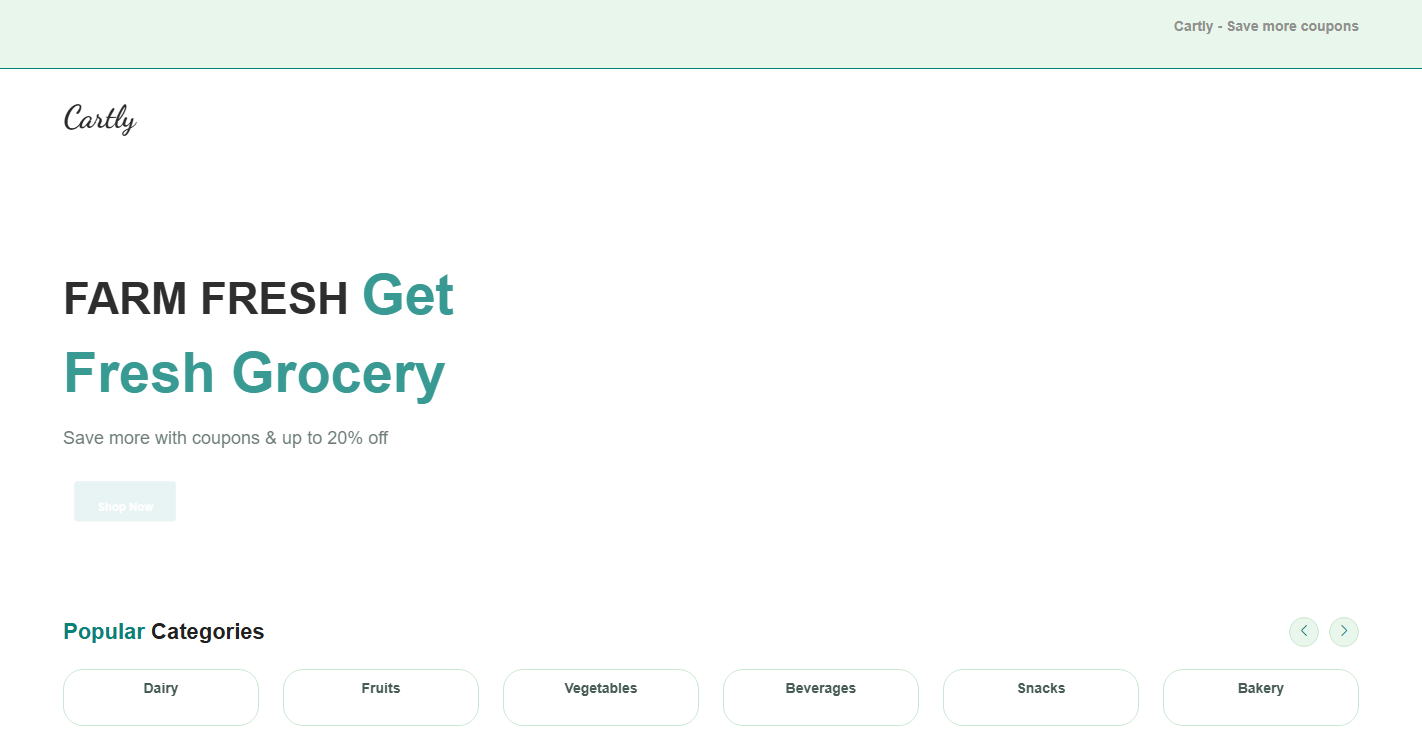
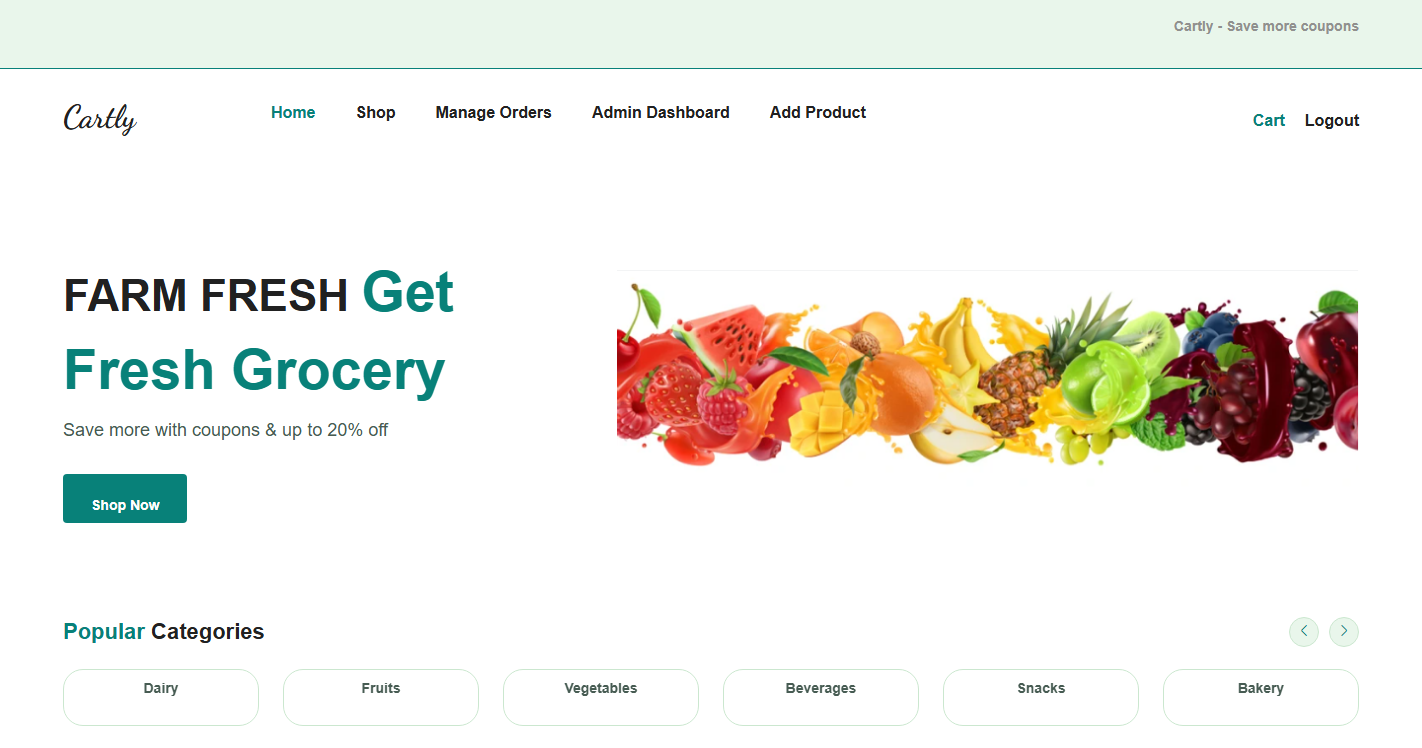
Fix broken asset references in templates
- Remove dead stylesheet link (ProductApp/styles.css never existed)
- Fix favicon to use the existing logo via {% static %}
- Add missing assets: menu-burger.svg, icon-email.svg, payment-method.png
- Replace hardcoded relative asset paths with {% static %} tags
- Remove leftover hardcoded demo showcase section with dead links
- Fix 'Shop Now' button to link to the shop URL
- Re-capture dashboard screenshot after cleanup

diff --git a/MainApp/templates/product.html b/MainApp/templates/product.html
@@ -82,7 +82,7 @@
         <span class="home__subtitle"></span>
         <h1 class="home__title">FARM FRESH <span>Get Fresh Grocery</span></h1>
         <p class="home__description">Save more with coupons & up to 20% off</p>
-        <a href="shop.html" class="btn">Shop Now</a>
+        <a href="{% url 'shop' %}" class="btn">Shop Now</a>
       </div>
       <img src="{% static 'pics/logo1.png' %}" alt="Logo" />
     </div>
@@ -250,195 +250,11 @@
 
 
 
-  <!--=============== SHOWCASE ===============-->
-  <section class="showcase section">
-    <div class="showcase__container container grid">
-  
-      <!-- Fresh Section -->
-      <div class="showcase__wrapper animate-on-scroll">
-        <h3 class="section__title">Fresh</h3>
-      
-        <div class="showcase__item animate-on-scroll">
-          <a href="coconut.html" class="showcase__img-box">
-            <img src="./assets/img/111 big-coconut-1-pc-approx-350-g-600-g.webp" alt="" class="showcase__img" />
-          </a>
-          <div class="showcase__content">
-            <a href="coconut.html"><h4 class="showcase__title">Coconut</h4></a>
-            <div class="showcase__price flex">
-              <span class="new__price">₹50.00</span>
-              <span class="old__price">₹70.00</span>
-            </div>
-          </div>
-        </div>
-  
-        <div class="showcase__item zoom-in">
-          <a href="apple.html" class="showcase__img-box">
-            <img src=".Main/assets/img/112 apple.webp" alt="" class="showcase__img" />
-          </a>
-          <div class="showcase__content">
-            <a href="details.html"><h4 class="showcase__title">Apple</h4></a>
-            <div class="showcase__price flex">
-              <span class="new__price">₹200.00</span>
-              <span class="old__price">₹245.00</span>
-            </div>
-          </div>
-        </div>
-  
-        <div class="showcase__item zoom-in">
-          <a href="pineapple.html" class="showcase__img-box">
-            <img src="./assets/img/113 pineapple-queen-1-pc .webp" alt="" class="showcase__img" />
-          </a>
-          <div class="showcase__content">
-            <a href="details.html"><h4 class="showcase__title">Pineapple</h4></a>
-            <div class="showcase__price flex">
-              <span class="new__price">₹150.00</span>
-              <span class="old__price">₹179.00</span>
-            </div>
-          </div>
-        </div>
-      </div>
-  
-      <!-- Home & Lifestyle Section -->
-      <div class="showcase__wrapper slide-up">
-        <h3 class="section__title fade-in">Home & Lifestyle</h3>
-  
-        <div class="showcase__item zoom-in">
-          <a href="8_kitchenware.html" class="showcase__img-box">
-            <img src="./assets/img/home-11-liv-flame-non-stick-black-aluminium-cookware-sets-of-3-product-images-o494241286-p604752734-0-202309232039.webp" alt="" class="showcase__img" />
-          </a>
-          <div class="showcase__content">
-            <a href="8_kitchenware.html"><h4 class="showcase__title">Non stick pan</h4></a>
-            <div class="showcase__price flex">
-              <span class="new__price">₹499.00</span>
-              <span class="old__price">₹699.00</span>
-            </div>
-          </div>
-        </div>
-  
-        <div class="showcase__item zoom-in">
-          <a href="8_kitchenware.html" class="showcase__img-box">
-            <img src="./assets/img/home-22-biodegradable-garbage-bags-medium-size-19-21-inch-90-bags-3-rolls-product-images-orvgl7wlpus-p603457038-0-202401081227.webp" alt="" class="showcase__img" />
-          </a>
-          <div class="showcase__content">
-            <a href="8_kitchenware.html"><h4 class="showcase__title">Biodegradable bag</h4></a>
-            <div class="showcase__price flex">
-              <span class="new__price">₹179.00</span>
-              <span class="old__price">₹200.00</span>
-            </div>
-          </div>
-        </div>
-  
-        <div class="showcase__item zoom-in">
-          <a href="8_kitchenware.html" class="showcase__img-box">
-            <img src="./assets/img/home-33-gas-lighter-black-isi-mark-1-year-warranty-product-images-orv0vqf2g5q-p594433959-0-202210121905.webp" alt="" class="showcase__img" />
-          </a>
-          <div class="showcase__content">
-            <a href="8_kitchenware.html"><h4 class="showcase__title">Gas Lighter</h4></a>
-            <div class="showcase__price flex">
-              <span class="new__price">₹145.00</span>
-              <span class="old__price">₹180.00</span>
-            </div>
-          </div>
-        </div>
-      </div>
-  
-      <!-- Grocery Essentials Section -->
-      <div class="showcase__wrapper slide-up">
-        <h3 class="section__title fade-in">Grocery Essentials</h3>
-  
-        <div class="showcase__item zoom-in">
-          <a href="6_personalcare.html" class="showcase__img-box">
-            <img src="./assets/img/ess-11-closeup-everfresh-red-hot-gel-toothpaste-150-g-pack-of-2-product-images-o490008332-p490008332-0-202306071847.webp" alt="" class="showcase__img" />
-          </a>
-          <div class="showcase__content">
-            <a href="6_personalcare.html"><h4 class="showcase__title">Closeup paste</h4></a>
-            <div class="showcase__price flex">
-              <span class="new__price">₹160.00</span>
-              <span class="old__price">₹200.00</span>
-            </div>
-          </div>
-        </div>
-  
-        <div class="showcase__item zoom-in">
-          <a href="3_homecare.html" class="showcase__img-box">
-            <img src="./assets/img/ess-22-surf-excel-easy-wash-detergent-powder-5-kg-product-images-o492367966-p590837659-0-202410161619.webp" alt="" class="showcase__img" />
-          </a>
-          <div class="showcase__content">
-            <a href="3_homecare.html"><h4 class="showcase__title">Surf Excel powder</h4></a>
-            <div class="showcase__price flex">
-              <span class="new__price">₹558.00</span>
-              <span class="old__price">₹655.00</span>
-            </div>
-          </div>
-        </div>
-  
-        <div class="showcase__item zoom-in">
-          <a href="5_cookingessentials.html" class="showcase__img-box">
-            <img src="./assets/img/ess-33-fortune-sunlite-refined-sunflower-oil-1-l-product-images-o490000052-p490000052-0-202203150155.webp" alt="" class="showcase__img" />
-          </a>
-          <div class="showcase__content">
-            <a href="5_cookingessentials.html"><h4 class="showcase__title">Fortune Sunflower oil</h4></a>
-            <div class="showcase__price flex">
-              <span class="new__price">₹159.00</span>
-              <span class="old__price">₹200.00</span>
-            </div>
-          </div>
-        </div>
-      </div>
-  
-      <!-- Snacks Store Section -->
-      <div class="showcase__wrapper slide-up">
-        <h3 class="section__title fade-in">Snacks Store</h3>
-  
-        <div class="showcase__item zoom-in">
-          <a href="4_packedfood.html" class="showcase__img-box">
-            <img src="./assets/img/snacks-11-murukku.webp" alt="" class="showcase__img" />
-          </a>
-          <div class="showcase__content">
-            <a href="4_packedfood.html"><h4 class="showcase__title">Murruku</h4></a>
-            <div class="showcase__price flex">
-              <span class="new__price">₹50.00</span>
-              <span class="old__price">₹60.00</span>
-            </div>
-          </div>
-        </div>
-  
-        <div class="showcase__item zoom-in">
-          <a href="4_packedfood.html" class="showcase__img-box">
-            <img src="./assets/img/snacks-22-hot-n-sweet-potato-chips-crispy-chips-snacks.webp" alt="" class="showcase__img" />
-          </a>
-          <div class="showcase__content">
-            <a href="4_packedfood.html"><h4 class="showcase__title">Lays</h4></a>
-            <div class="showcase__price flex">
-              <span class="new__price">₹50.00</span>
-              <span class="old__price">₹60.00</span>
-            </div>
-          </div>
-        </div>
-  
-        <div class="showcase__item zoom-in">
-          <a href="4_packedfood.html" class="showcase__img-box">
-            <img src="./assets/img/snacks-33-dark-fantasy-vanilla-creme-biscuits-249-g-pack-of-3-product-images-o491696803-p590126856-0-202406031907.webp" alt="" class="showcase__img" />
-          </a>
-          <div class="showcase__content">
-            <a href="4_packedfood.html"><h4 class="showcase__title">Dark fantasy biscuits</h4></a>
-            <div class="showcase__price flex">
-              <span class="new__price">₹45.00</span>
-              <span class="old__price">₹55.00</span>
-            </div>
-          </div>
-        </div>
-      </div>
-  
-    </div>
-  </section>
-  
-
   <!--=============== NEWSLETTER ===============-->
   <section class="newsletter section home__newsletter slide-up">
     <div class="newsletter__container container grid">
       <h3 class="newsletter__title flex fade-in">
-        <img src="./assets/img/icon-email.svg" alt="" class="newsletter__icon" />
+        <img src="{% static 'assets/img/icon-email.svg' %}" alt="" class="newsletter__icon" />
         Sign in to Freshyy grocery
       </h3>
       <p class="newsletter__description fade-in">

diff --git a/MainApp/templates/base.html b/MainApp/templates/base.html
@@ -27,9 +27,8 @@
 <link href="https://cdn.jsdelivr.net/npm/bootstrap@5.3.0/dist/css/bootstrap.min.css" rel="stylesheet">
 <link rel="stylesheet" href="https://cdn.jsdelivr.net/npm/bootstrap-icons@1.10.5/font/bootstrap-icons.css">
 
-  <link rel="stylesheet" href="{% static 'ProductApp/styles.css' %}">
   <link href="https://unpkg.com/aos@2.3.1/dist/aos.css" rel="stylesheet" />
-  <link rel="icon" type="image/png" href="static/logo.png">
+  <link rel="icon" type="image/png" href="{% static 'pics/logo.png' %}">
   <style>
 /* Button styles for a premium look */
 .btn {
@@ -2368,7 +2367,7 @@
       <div class="header__user-actions">
         <a href="{% url 'view_cart' %}" class="nav__link active-link">Cart</a>
         <div class="header__action-btn nav__toggle" id="nav-toggle">
-          <img src="./assets/img/menu-burger.svg" alt="">
+          <img src="{% static 'assets/img/menu-burger.svg' %}" alt="">
         </div>
         {% if user.is_authenticated %}
           <li class="nav__item">
@@ -2432,7 +2431,7 @@
       </div>
       <div class="footer__content">
         <h3 class="footer__title">Secured Payed Gateways</h3>
-        <img src="./assets/img/payment-method.png" alt="" class="payment__img" />
+        <img src="{% static 'assets/img/payment-method.png' %}" alt="" class="payment__img" />
       </div>
     </div>
     <div class="footer__bottom">
